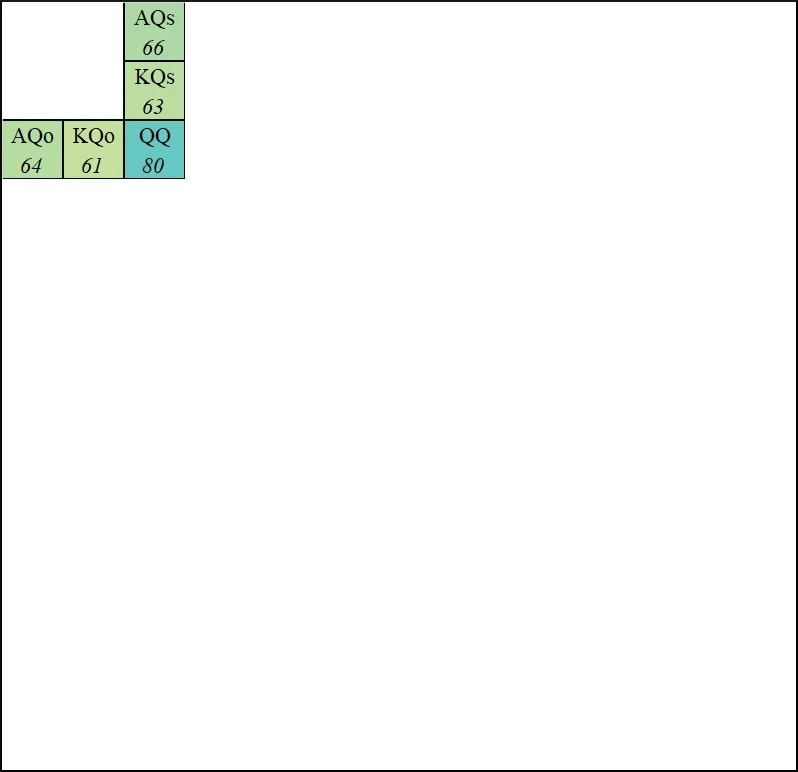
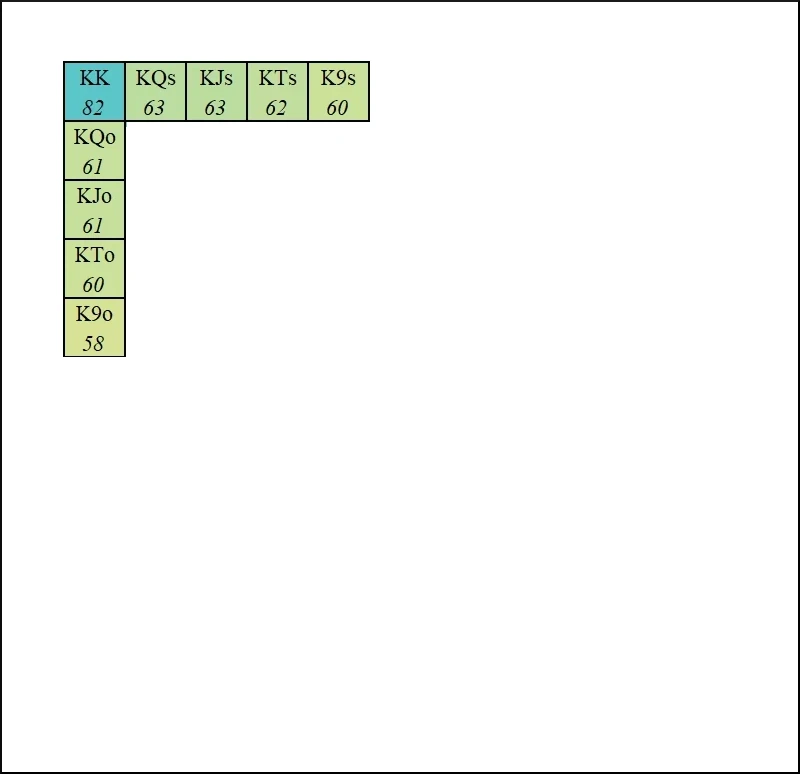
04.06.2024 18:42

Changed region(s): [[0.0, 0.0, 0.4812, 0.4663]]

diff --git a/zones/ac-reference/pages/19.html b/zones/ac-reference/pages/19.html
@@ -44,6 +44,9 @@
 <a target='_blank' href='../images/probability-win-random-01.webp'><img class='clImageThumb' src='../images/probability-win-random-01.webp'></a><br>
 <a target='_blank' href='../images/probability-win-random-02.webp'><img class='clImageThumb' src='../images/probability-win-random-02.webp'></a><br>
 <a target='_blank' href='../images/probability-win-random-03.webp'><img class='clImageThumb' src='../images/probability-win-random-03.webp'></a><br>
+<a target='_blank' href='../images/probability-win-random-04.webp'><img class='clImageThumb' src='../images/probability-win-random-04.webp'></a><br>
+<a target='_blank' href='../images/probability-win-random-05.webp'><img class='clImageThumb' src='../images/probability-win-random-05.webp'></a><br>
+<a target='_blank' href='../images/probability-win-random-06.webp'><img class='clImageThumb' src='../images/probability-win-random-06.webp'></a><br>
 <br>
 <!--<br>
 https://www.mypokercoaching.com/poker-hands-rankings/best-poker-starting-hands/<br>